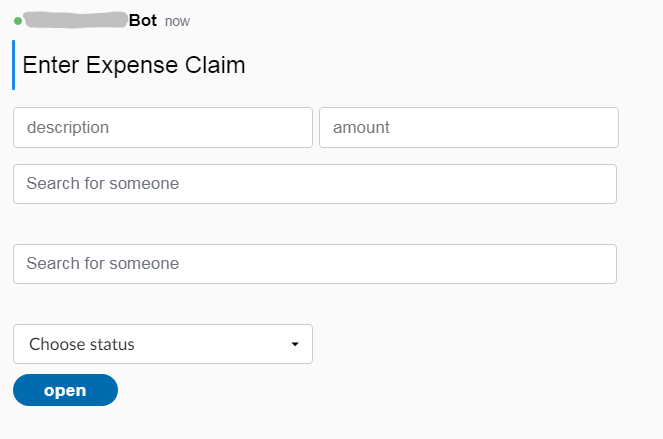
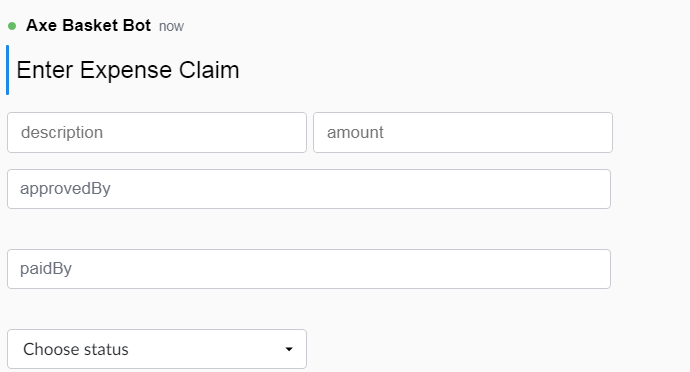
Improving README

diff --git a/chat-workflow/src/main/java/com/github/deutschebank/symphony/workflow/sources/symphony/handlers/FormMessageMLConverter.java b/chat-workflow/src/main/java/com/github/deutschebank/symphony/workflow/sources/symphony/handlers/FormMessageMLConverter.java
@@ -315,7 +315,7 @@ public class FormMessageMLConverter {
 		if (editMode) {
 			return ErrorHelp.errors(e) + "<person-selector " 
 					+ attribute("name", e.getNestedPath()) +
-				 "placeholder=\"Search for someone\" required=\"false\"/>";
+				 "placeholder=\""+name+"\" required=\"false\"/>";
 		} else if (bean == null) {
 			return "-- no user --";
 		} else {

diff --git a/demos/demo-chat-workflow/src/main/java/example/symphony/demoworkflow/expenses/Claim.java b/demos/demo-chat-workflow/src/main/java/example/symphony/demoworkflow/expenses/Claim.java
@@ -30,7 +30,7 @@ public class Claim {
 		return out;
 	}
 
-	@Exposed(description = "Approve an expense claim", rooms= {"Claim Approval Room"})
+	@Exposed(description = "Approve an expense claim")
 	public Claim approve() {
 		if (this.status == Status.OPEN) {
 			this.approvedBy = Author.CURRENT_AUTHOR.get();
